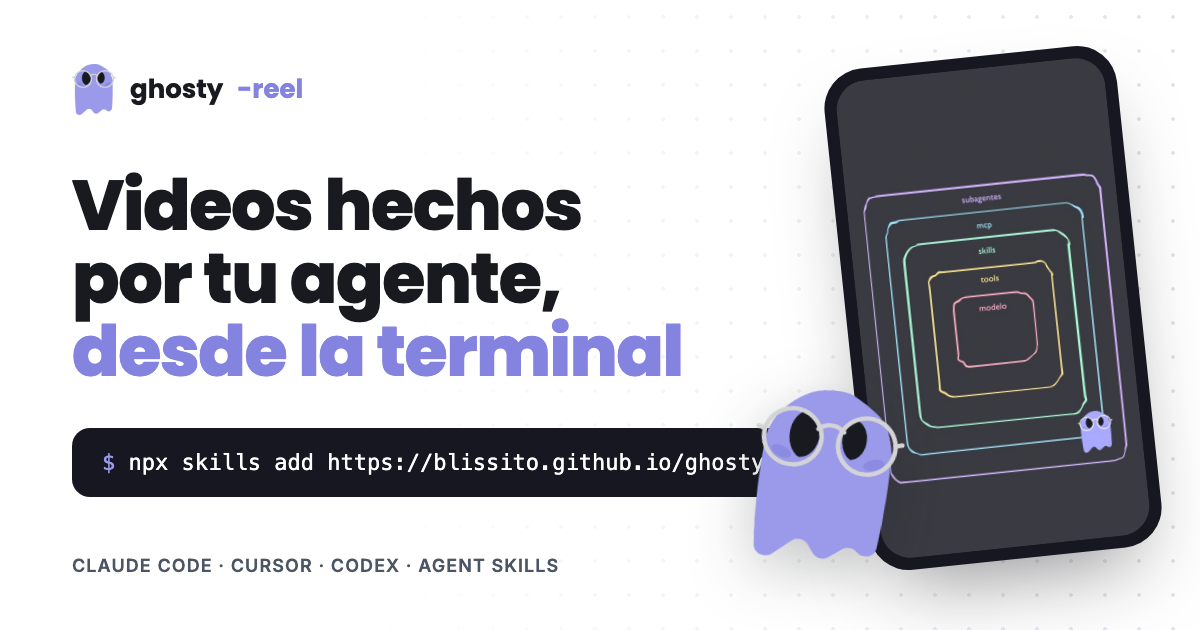
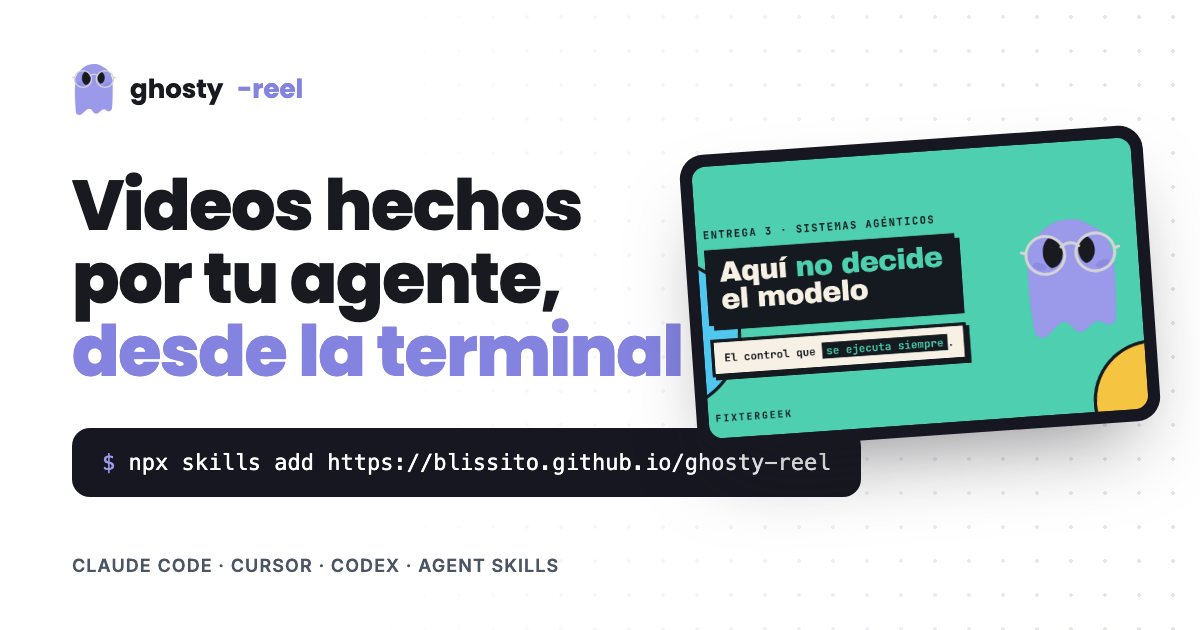
Pages: fuera el reel de Blender del hero; OG con el preview de hooks-reel

Changed region(s): [[0.555, 0.0603, 0.9867, 0.9651]]

diff --git a/scripts/pages-template.html b/scripts/pages-template.html
@@ -40,7 +40,7 @@ nav .gh{display:inline-flex;align-items:center;gap:8px;background:var(--dark);co
 nav .gh:hover{text-decoration:none;background:#000}
 @media(max-width:720px){nav ul{display:none}}
 /* ---- hero ---- */
-.hero{padding:72px 0 40px;display:grid;grid-template-columns:minmax(0,1.15fr) minmax(0,.85fr);gap:40px;align-items:center}
+.hero{padding:72px 0 40px;display:grid;grid-template-columns:minmax(0,1fr);max-width:760px}
 .hero>div{min-width:0}
 .hero h1{font-size:clamp(38px,5.4vw,66px);line-height:1.04;margin:0 0 18px;font-weight:800}
 .hero h1 em{font-style:normal;color:var(--brand-600)}
@@ -63,7 +63,7 @@ nav .gh:hover{text-decoration:none;background:#000}
 .film .chip b{display:block;font-family:Poppins,sans-serif;font-size:14px}
 .film .chip span{color:var(--metal)}
 @keyframes rise{from{opacity:0;transform:translateY(14px)}to{opacity:1;transform:none}}
-@media(max-width:820px){.hero{grid-template-columns:1fr;padding-top:44px}.film{order:-1}.film video{width:200px}.film .chip{left:-4px}.film .chip.top{right:-4px}}
+@media(max-width:820px){.hero{padding-top:44px}}
 /* ---- secciones ---- */
 section{padding:48px 0}
 h2{font-size:26px;margin:0 0 6px;font-weight:700}
@@ -130,11 +130,6 @@ footer .wrap{display:flex;justify-content:space-between;gap:14px;flex-wrap:wrap}
     <p class="lead">Guion, voz, música, efectos, render y mezcla desde la línea de comandos. Nadie abre Blender, ni un editor de video, ni un DAW. Todo el stack es libre.</p>
     <div class="cmd"><code><b>$</b> npx skills add https://blissito.github.io/ghosty-reel</code><button onclick="navigator.clipboard.writeText('npx skills add https://blissito.github.io/ghosty-reel');this.textContent='Copiado ✓';setTimeout(()=>this.textContent='Copiar',1500)">Copiar</button></div>
     <p class="agents">Se instala en <b>Claude Code</b>, <b>Cursor</b>, <b>Codex</b>, Gemini CLI, Windsurf y 70 agentes más.</p>
-  </div>
-  <div class="film">
-    <video src="https://raw.githubusercontent.com/blissito/ghosty-reel/main/harness-reel/docs/harness-reel.mp4" poster="harness-frame.jpg" autoplay muted loop playsinline></video>
-    <div class="chip top"><b>Blender headless</b><span>Grease Pencil, 9:16</span></div>
-    <div class="chip"><b>Voz local</b><span>Kokoro · ffmpeg mezcla</span></div>
   </div>
 </div>
 

diff --git a/scripts/og.html b/scripts/og.html
@@ -14,8 +14,8 @@ h1 em{font-style:normal;color:#8483e0}
 .cmd{position:absolute;left:72px;top:428px;white-space:nowrap;background:#161720;color:#fff;border-radius:18px;padding:22px 30px;font:500 22px ui-monospace,Menlo,monospace}
 .cmd b{color:#9a99ea;font-weight:500}
 .foot{position:absolute;left:72px;bottom:54px;font:600 18px Inter,sans-serif;color:#4b5563;letter-spacing:.06em;text-transform:uppercase}
-.phone{position:absolute;right:60px;top:56px;width:270px;height:480px;border-radius:40px;background:#161720;padding:12px;box-shadow:0 40px 80px -30px rgba(25,26,32,.5);transform:rotate(-6deg)}
-.phone img{width:100%;height:100%;object-fit:cover;border-radius:30px;display:block}
+.phone{position:absolute;right:48px;top:140px;width:440px;height:272px;padding:10px;border-radius:24px;background:#161720;padding:12px;box-shadow:0 40px 80px -30px rgba(25,26,32,.5);transform:rotate(-4deg)}
+.phone img{width:100%;height:100%;object-fit:cover;border-radius:14px;display:block}
 .ghost{position:absolute;right:300px;top:390px;width:150px;filter:drop-shadow(0 18px 30px rgba(25,26,32,.25));transform:rotate(8deg)}
 </style></head><body>
 <div class="grid"></div><div class="fade"></div>
@@ -23,6 +23,5 @@ h1 em{font-style:normal;color:#8483e0}
 <h1>Videos hechos por tu agente, <em>desde la terminal</em></h1>
 <div class="cmd"><b>$</b> npx skills add https://blissito.github.io/ghosty-reel</div>
 <div class="foot">Claude Code · Cursor · Codex · Agent Skills</div>
-<div class="phone"><img src="../assets/harness-frame.jpg" alt=""></div>
-<img class="ghost" src="https://formmy.app/logo.png" alt="">
+<div class="phone"><img src="../hooks-reel/docs/preview.png" alt=""></div>
 </body></html>
